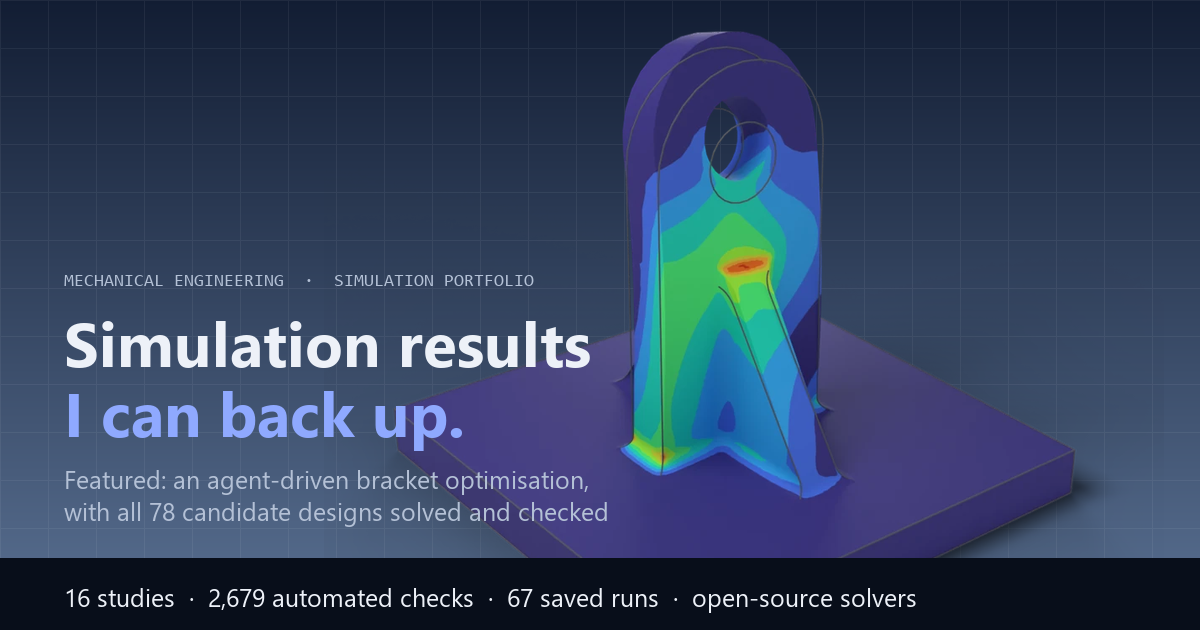
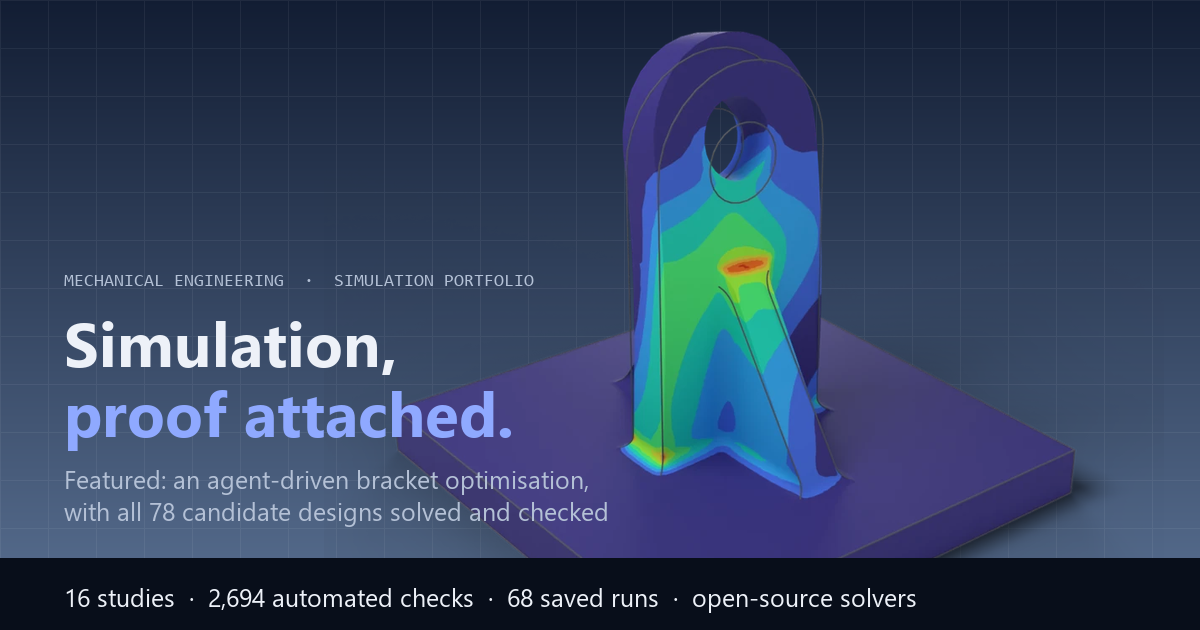
Dashboard: intro rewritten to let the work speak
Headline "Simulation, proof attached." The paragraph opens with three
results from the studies and invites the visitor to pick one and check
it; no first-person introduction. The link preview card and og:title
carry the same headline.

diff --git a/docs/index.html b/docs/index.html
@@ -6,7 +6,7 @@
 <meta name="description" content="Sixteen open-source simulation studies, each checked against an independent reference, with a live grader demo and every requirement in one table.">
 <meta property="og:type" content="website">
 <meta property="og:url" content="https://cptgrumpus.github.io/engineering-agent-lab/">
-<meta property="og:title" content="Simulation results I can back up">
+<meta property="og:title" content="Simulation, proof attached">
 <meta property="og:description" content="Sixteen open-source simulation studies, from FEA, CFD and coupled multiphysics to an optimisation loop. Every result is checked against an independent reference before it's called a pass or a fail.">
 <meta property="og:image" content="https://cptgrumpus.github.io/engineering-agent-lab/v2/og_card.png">
 <meta property="og:image:width" content="1200">
@@ -109,9 +109,9 @@ code { font-family: var(--font-data); font-size: 0.85em; }
 @media (max-width: 900px) { .hero { grid-template-columns: 1fr; } }
 .hero h1 {
   font-size: clamp(2.5rem, 6.4vw, 5rem); font-weight: 800; font-stretch: 112%;
-  letter-spacing: -0.025em; line-height: 0.98; max-width: 14ch;
+  letter-spacing: -0.025em; line-height: 0.98; max-width: 18ch;
 }
-.hero h1 em { font-style: normal; color: var(--accent); }
+.hero h1 em { font-style: normal; color: var(--accent); display: block; }
 .lede { font-size: clamp(1.08rem, 1.6vw, 1.28rem); color: var(--ink-2); max-width: 62ch; line-height: 1.55; }
 .lede b { color: var(--ink); font-weight: 600; }
 .hero-cta { display: flex; flex-wrap: wrap; align-items: center; gap: 12px 14px; }
@@ -527,14 +527,14 @@ details.study > summary:hover .study-toggle { text-decoration: underline; }
   <header class="hero wrap">
     <div class="hero-text">
     <p class="eyebrow">Mechanical engineering · simulation portfolio</p>
-    <h1>Simulation results <em>I can back up.</em></h1>
-    <p class="lede">I'm an automotive mechanical engineer with a master's in ME, and in my day job I use AI agents to run virtual models. Here are sixteen studies covering <b>structures, contact, vibration, fatigue, buckling, plasticity, fluids, heat transfer, vehicle dynamics and design optimisation</b>. Each one starts from written requirements, runs a real open-source solver, and is checked against something independent before I call it a pass or a fail.</p>
+    <h1>Simulation, <em>proof attached.</em></h1>
+    <p class="lede">A bolted joint that slips 4 % too early. A strut that buckles at 23 kN. A bracket made lighter by an AI agent that tried 78 designs. <b>Sixteen studies, each one checked against an independent answer.</b> Pick one, turn it over, load it up and check it yourself.</p>
     <div class="hero-cta"><a class="cta" href="#work">See the work</a><a class="cta-ghost" href="#get-in-touch">Contact</a><span class="hero-links"><a href="#tasks">Try grading an answer</a><a class="ext" href="https://github.com/CptGrumpus/engineering-agent-lab/blob/main/portfolio/deliverables/coolant-channel-memo.md">A sample client memo</a></span></div>
     </div>
     <dl class="stats">
       <div><dt>studies</dt><dd>16</dd></div>
-      <div><dt>automated checks</dt><dd>2,679</dd></div>
-      <div><dt>saved runs</dt><dd>67</dd></div>
+      <div><dt>automated checks</dt><dd>2,694</dd></div>
+      <div><dt>saved runs</dt><dd>68</dd></div>
       <div><dt>paid licences</dt><dd>0</dd></div>
     </dl>
   </header>
@@ -1419,7 +1419,7 @@ details.study > summary:hover .study-toggle { text-decoration: underline; }
         </tbody>
       </table>
     </div>
-    <p class="code-facts">It's all Python, about 34,000 lines across 218 files: the harness that runs and checks everything, the models, the independent reference solutions and the graders, with 243 automated tests that run on every push.</p>
+    <p class="code-facts">It's all Python, about 34,000 lines across 221 files: the harness that runs and checks everything, the models, the independent reference solutions and the graders, with 249 automated tests that run on every push.</p>
   </section>
 
   <section class="band wrap" id="tasks" aria-labelledby="tasks-title">

diff --git a/site/index.html b/site/index.html
@@ -94,9 +94,9 @@ code { font-family: var(--font-data); font-size: 0.85em; }
 @media (max-width: 900px) { .hero { grid-template-columns: 1fr; } }
 .hero h1 {
   font-size: clamp(2.5rem, 6.4vw, 5rem); font-weight: 800; font-stretch: 112%;
-  letter-spacing: -0.025em; line-height: 0.98; max-width: 14ch;
+  letter-spacing: -0.025em; line-height: 0.98; max-width: 18ch;
 }
-.hero h1 em { font-style: normal; color: var(--accent); }
+.hero h1 em { font-style: normal; color: var(--accent); display: block; }
 .lede { font-size: clamp(1.08rem, 1.6vw, 1.28rem); color: var(--ink-2); max-width: 62ch; line-height: 1.55; }
 .lede b { color: var(--ink); font-weight: 600; }
 .hero-cta { display: flex; flex-wrap: wrap; align-items: center; gap: 12px 14px; }
@@ -509,14 +509,14 @@ details.study > summary:hover .study-toggle { text-decoration: underline; }
   <header class="hero wrap">
     <div class="hero-text">
     <p class="eyebrow">Mechanical engineering · simulation portfolio</p>
-    <h1>Simulation results <em>I can back up.</em></h1>
-    <p class="lede">I'm an automotive mechanical engineer with a master's in ME, and in my day job I use AI agents to run virtual models. Here are sixteen studies covering <b>structures, contact, vibration, fatigue, buckling, plasticity, fluids, heat transfer, vehicle dynamics and design optimisation</b>. Each one starts from written requirements, runs a real open-source solver, and is checked against something independent before I call it a pass or a fail.</p>
+    <h1>Simulation, <em>proof attached.</em></h1>
+    <p class="lede">A bolted joint that slips 4 % too early. A strut that buckles at 23 kN. A bracket made lighter by an AI agent that tried 78 designs. <b>Sixteen studies, each one checked against an independent answer.</b> Pick one, turn it over, load it up and check it yourself.</p>
     <div class="hero-cta"><a class="cta" href="#work">See the work</a><a class="cta-ghost" href="#get-in-touch">Contact</a><span class="hero-links"><a href="#tasks">Try grading an answer</a><a class="ext" href="https://github.com/CptGrumpus/engineering-agent-lab/blob/main/portfolio/deliverables/coolant-channel-memo.md">A sample client memo</a></span></div>
     </div>
     <dl class="stats">
       <div><dt>studies</dt><dd>16</dd></div>
-      <div><dt>automated checks</dt><dd>2,679</dd></div>
-      <div><dt>saved runs</dt><dd>67</dd></div>
+      <div><dt>automated checks</dt><dd>2,694</dd></div>
+      <div><dt>saved runs</dt><dd>68</dd></div>
       <div><dt>paid licences</dt><dd>0</dd></div>
     </dl>
   </header>
@@ -1401,7 +1401,7 @@ details.study > summary:hover .study-toggle { text-decoration: underline; }
         </tbody>
       </table>
     </div>
-    <p class="code-facts">It's all Python, about 34,000 lines across 218 files: the harness that runs and checks everything, the models, the independent reference solutions and the graders, with 243 automated tests that run on every push.</p>
+    <p class="code-facts">It's all Python, about 34,000 lines across 221 files: the harness that runs and checks everything, the models, the independent reference solutions and the graders, with 249 automated tests that run on every push.</p>
   </section>
 
   <section class="band wrap" id="tasks" aria-labelledby="tasks-title">

diff --git a/site/v2_template.html b/site/v2_template.html
@@ -94,9 +94,9 @@ code { font-family: var(--font-data); font-size: 0.85em; }
 @media (max-width: 900px) { .hero { grid-template-columns: 1fr; } }
 .hero h1 {
   font-size: clamp(2.5rem, 6.4vw, 5rem); font-weight: 800; font-stretch: 112%;
-  letter-spacing: -0.025em; line-height: 0.98; max-width: 14ch;
+  letter-spacing: -0.025em; line-height: 0.98; max-width: 18ch;
 }
-.hero h1 em { font-style: normal; color: var(--accent); }
+.hero h1 em { font-style: normal; color: var(--accent); display: block; }
 .lede { font-size: clamp(1.08rem, 1.6vw, 1.28rem); color: var(--ink-2); max-width: 62ch; line-height: 1.55; }
 .lede b { color: var(--ink); font-weight: 600; }
 .hero-cta { display: flex; flex-wrap: wrap; align-items: center; gap: 12px 14px; }
@@ -423,8 +423,8 @@ details.study > summary:hover .study-toggle { text-decoration: underline; }
   <header class="hero wrap">
     <div class="hero-text">
     <p class="eyebrow">Mechanical engineering · simulation portfolio</p>
-    <h1>Simulation results <em>I can back up.</em></h1>
-    <p class="lede">I'm an automotive mechanical engineer with a master's in ME, and in my day job I use AI agents to run virtual models. Here are {{STUDY_COUNT_WORD}} studies covering <b>structures, contact, vibration, fatigue, buckling, plasticity, fluids, heat transfer, vehicle dynamics and design optimisation</b>. Each one starts from written requirements, runs a real open-source solver, and is checked against something independent before I call it a pass or a fail.</p>
+    <h1>Simulation, <em>proof attached.</em></h1>
+    <p class="lede">A bolted joint that slips 4 % too early. A strut that buckles at 23 kN. A bracket made lighter by an AI agent that tried 78 designs. <b>{{STUDY_COUNT_TITLE}} studies, each one checked against an independent answer.</b> Pick one, turn it over, load it up and check it yourself.</p>
     <div class="hero-cta"><a class="cta" href="#work">See the work</a><a class="cta-ghost" href="#get-in-touch">Contact</a><span class="hero-links"><a href="#tasks">Try grading an answer</a><a class="ext" href="{{MEMO_URL}}">A sample client memo</a></span></div>
     </div>
     <dl class="stats">

diff --git a/site/export_docs.py b/site/export_docs.py
@@ -28,7 +28,7 @@ HEAD = """<!doctype html>
 <meta name="description" content="Sixteen open-source simulation studies, each checked against an independent reference, with a live grader demo and every requirement in one table.">
 <meta property="og:type" content="website">
 <meta property="og:url" content="https://cptgrumpus.github.io/engineering-agent-lab/">
-<meta property="og:title" content="Simulation results I can back up">
+<meta property="og:title" content="Simulation, proof attached">
 <meta property="og:description" content="Sixteen open-source simulation studies, from FEA, CFD and coupled multiphysics to an optimisation loop. Every result is checked against an independent reference before it's called a pass or a fail.">
 <meta property="og:image" content="https://cptgrumpus.github.io/engineering-agent-lab/v2/og_card.png">
 <meta property="og:image:width" content="1200">

diff --git a/site/make_og.py b/site/make_og.py
@@ -54,8 +54,8 @@ def make(facts: dict) -> Path:
     body = _font(["segoeui.ttf", "arial.ttf"], 25)
     x = 64
     d.text((x, 272), "MECHANICAL ENGINEERING  ·  SIMULATION PORTFOLIO", font=mono, fill=INK2)
-    d.text((x, 300), "Simulation results", font=title, fill=INK)
-    d.text((x, 370), "I can back up.", font=title, fill=ACCENT)
+    d.text((x, 300), "Simulation,", font=title, fill=INK)
+    d.text((x, 370), "proof attached.", font=title, fill=ACCENT)
     d.text((x, 462), "Featured: an agent-driven bracket optimisation,", font=body, fill=INK2)
     d.text((x, 494), "with all 78 candidate designs solved and checked", font=body, fill=INK2)
     stats = f"16 studies  ·  {facts['checks']:,} automated checks  ·  {facts['runs']} saved runs  ·  open-source solvers"

diff --git a/DASHBOARD.md b/DASHBOARD.md
@@ -61,6 +61,7 @@ Aim: better visuals and more "wow", without loosening any check. Every new visua
 
 | Date | Item | What changed |
 |---|---|---|
+| 2026-11-21 | Intro rewritten to let the work speak | Headline "Simulation, proof attached." The paragraph opens with three results from the studies (a joint that slips 4 % too early, a strut that buckles at 23 kN, a bracket lightened over 78 designs) and ends by inviting the visitor to pick one and check it. No "I am" sentence. The link preview card and page title carry the same headline |
 | 2026-11-21 | Before-and-after wipe for the optimised bracket | The featured section's side-by-side figure is now a wipe: drag across one image from the starting design (387.7 g, 88.9 MPa) to design D (372.0 g, 97.4 MPa). Both rendered with one camera and crop by `scripts/make_clevis_visuals.py --wipe` and both through the three render checks; the legend is built from the render's own bands, with ticks at their true values |
 | 2026-11-21 | Load-step slider for the strap proof test | 20 frames through the proof test, loading to 15 kN and back: the hole edge yields after about 9 kN, the yielded zone reaches 1.8 mm (recorded 1.84 mm), and unloading is elastic down to the −77 MPa left behind. One colour scale (−100 to 300 MPa, a band edge at yield) for every frame and for the main render; every frame passes the three render checks (worst misread 0.59 %). The re-solve prints at every increment, so the check is that every line the evidence run printed appears in it, in order, numbers to round-off |
 | 2026-11-21 | Load-step slider in the viewer | The strut can be stepped through, or played, from 1 kN to 21.5 kN: 19 load steps from the re-solve, one camera, one crop and one stress scale, each frame through the three render checks (100 % on the legend, 0 % misread). The readout gives the load as a share of buckling, the mid-span movement and the peak stress. Each step's displacement is checked against what the solver printed at that step. Motor card updated with its first verified result |
